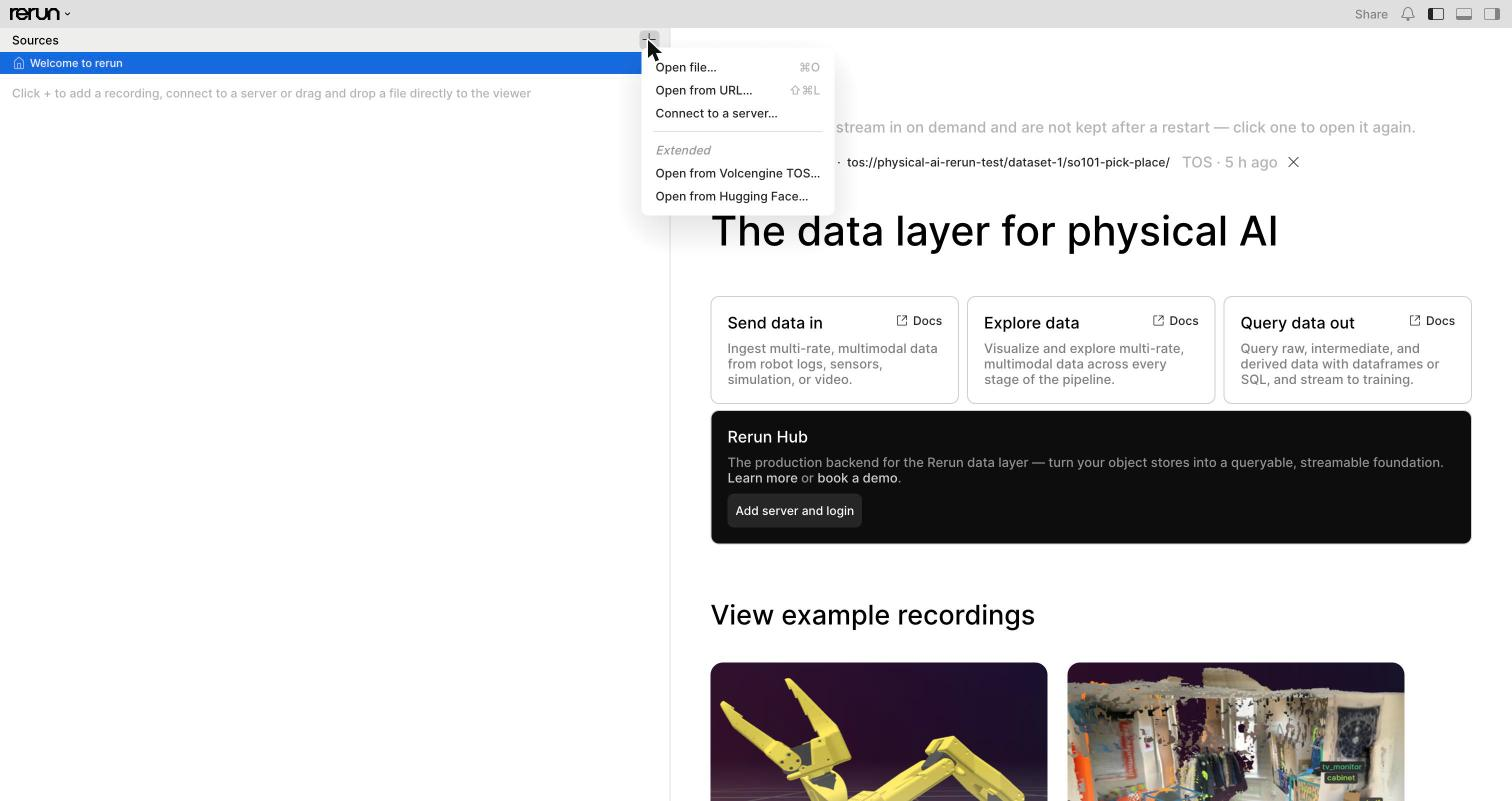
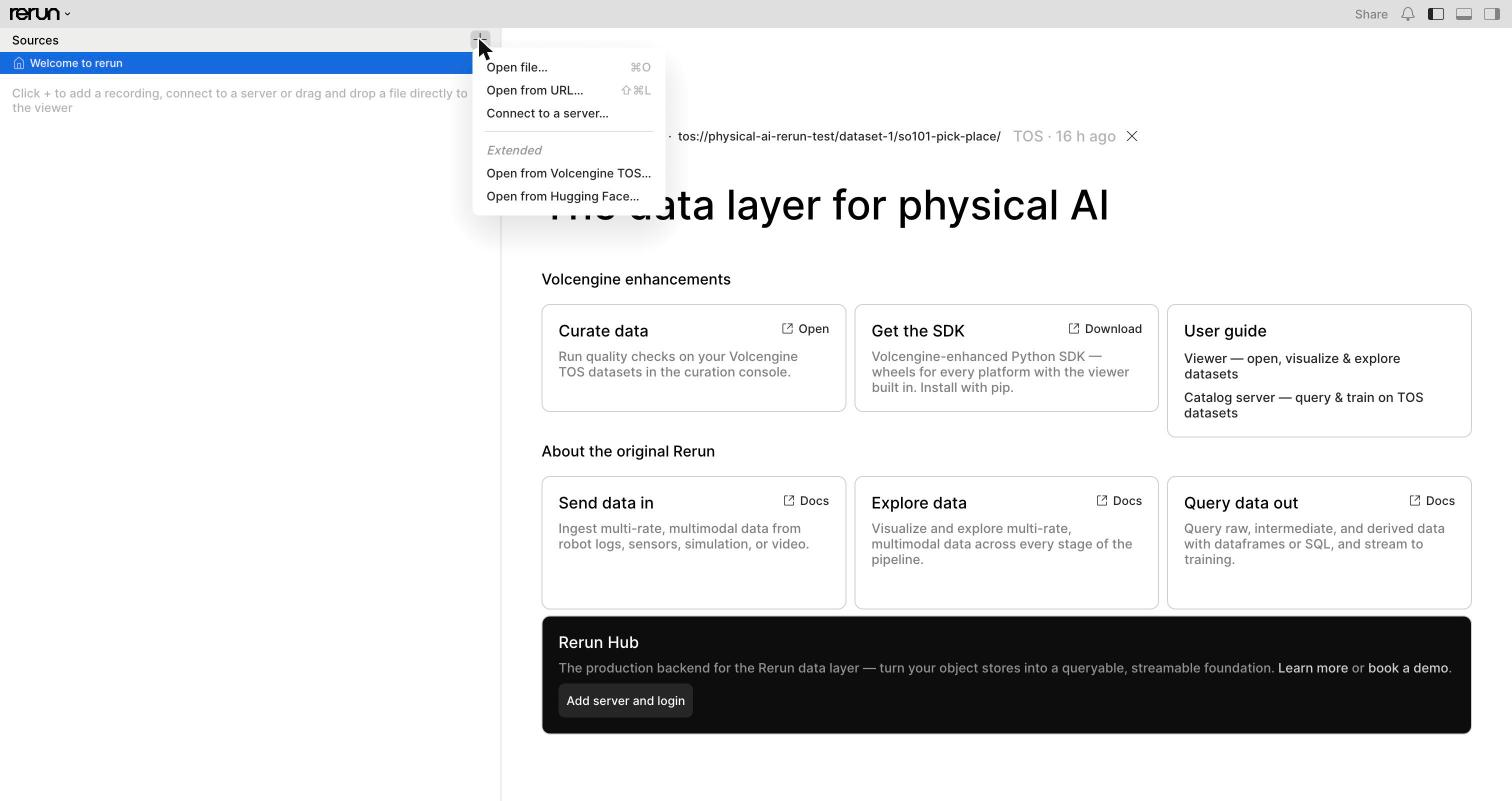
Qian/flexible values path (#39)
* docs: values file path is an example, not a requirement

* docs: refresh user guide screenshots for updated deployment

* docs: point web user-guide links at the actual page URLs

* fix curation deploy setting

diff --git a/docs/release/02-deploy.md b/docs/release/02-deploy.md
@@ -118,7 +118,11 @@ kubectl -n $DATAVERSE_NS create secret generic dataverse-secrets \
 
 ### 2.3 写 values 文件
 
-创建 `deploy/secrets/values-prod.yaml`(目录不存在先 `mkdir -p deploy/secrets`;该目录已被 gitignore 挡住),按注释替换尖括号里的值:
+创建一个 values 文件,按注释替换尖括号里的值。
+放哪里、叫什么都随意 — 文件里没有任何密钥(见下),不怕落盘;
+本文档后续命令统一以 `deploy/secrets/values-prod.yaml` 为例
+(这个目录已被 gitignore 挡住,放仓库里也不会误提交;目录不存在先 `mkdir -p deploy/secrets`),
+用别的路径就把后文命令里的 `-f` 参数跟着换掉:
 
 ```yaml
 # 完整镜像地址(必须带 tag):chart 不跟踪镜像版本,tag 每次构建都不同,必须显式给。
